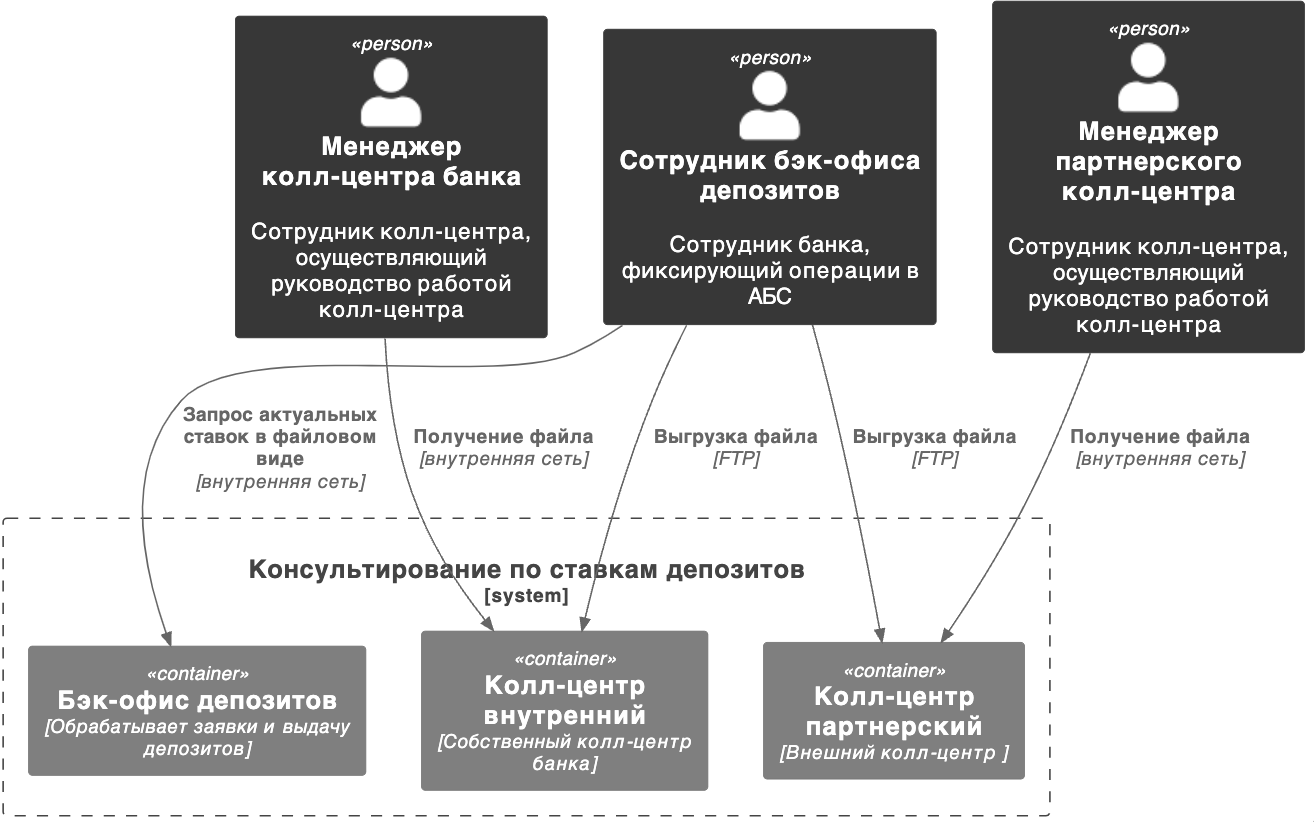
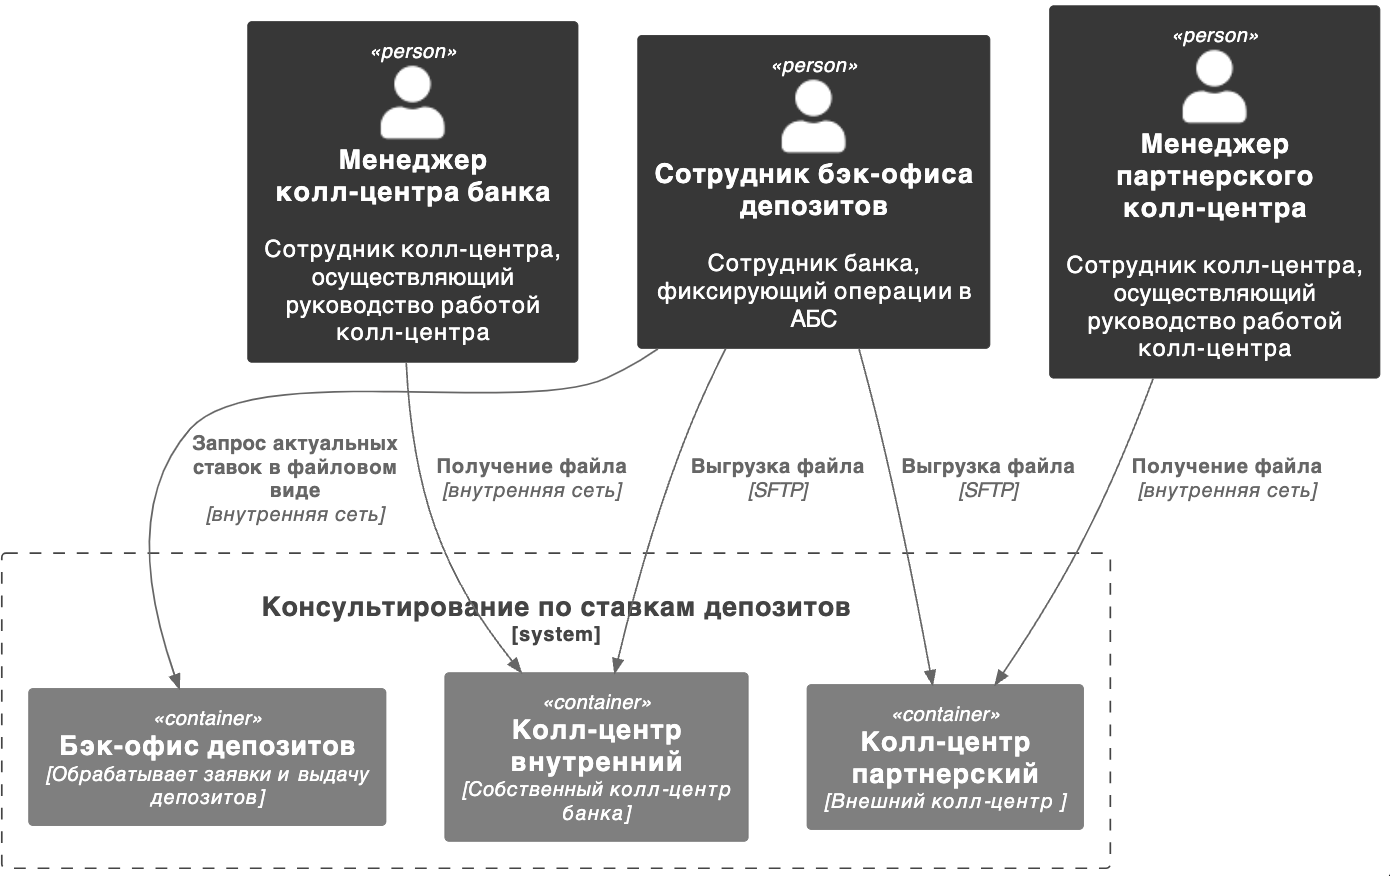
Review: Tasks 2,3,4

diff --git a/Task2/FURPS.md b/Task2/FURPS.md
@@ -12,12 +12,13 @@
 | U1 ?| Оранизовать доступ к ставкам по депозитам в АБС.                                 |              |
 | U2  | Дизайн всех систем должен использовать концепцию уже имееющуюся в компании.      |              |
 | R   | Надёжность (Reliability)                                                         |              |
-| R1  | Данные необходимо защищать с помощью механизма шифрования трафика.               |              |
-| R2  | В интернет-банке данные при передаче надо защитить шифрованием.                  |              |
+| R1  | Сервисы интернет-банка должны выдерживали требуемую нагрузку.                    |              |
+| R2  | Сервисы интернет-банка должны быть продублированы и распологаться в двух ЦОДах,  |              |
+|     | одна копися должна быть рабочая, вторая - выключена с возможностью быстрого      |              |
+|     | включения.                                                                       |              |
 | P   | Производительность (Performance)                                                 |              |
-| P1  | Отклик по всем операциям должен занимать миллисекунды.                           |              |
+| P1  | Отклик по всем операциям должен занимать не более 10 милисекунд.                 |              |
 | P2  | Все сервисы должны работать 24/7 и быть доступны в 99,9% случаев.                |              |
-| P3  | Сервисы интернет-банка должны выдерживали требуемую нагрузку.                    |              |
 | S   | Поддерживаемость (Supportability)                                                |              |
 | S1  | Использовать для новых разработок технологии которые уже есть в компании         |              |
 |     | или по которым есть экспертиза.                                                  |              |
@@ -27,3 +28,6 @@
 | +R3 | Данные о ставках по депозитам должны быть доступны сотрудникам                   |              | 
 |     | бэк-офиса депозитов и бэк-офиса кредитов.                                        |              |
 | +R4 | В качестве очереди использовать Kafka.                                           |              |
+| +S  | + Ограничения (Restricitions)                                                    |              |
+| +S1 | Данные необходимо защищать с помощью механизма шифрования трафика.               |              |
+| +S2 | В интернет-банке данные при передаче надо защитить шифрованием.                  |              |

diff --git a/Task4/ADR.md b/Task4/ADR.md
@@ -8,7 +8,7 @@
 | :-: | :- | :- | :- |
 |1|Руководитель колл-центра банка, Оператор бэк-офиса депозитов|Актуализация данных|1.Оператор бэк-офиса отправляет актуальный XLS-файл по внутренней электронной почте руководителю колл-центра|
 ||||2.Руководитель колл-центра доводит информацию до сотрудников|
-|2|Руководитель партнерского колл-центра, Оператор бэк-офиса депозитов|Актуализация данных|1.Оператор бэк-офиса отправляет актуальный XLS-файл по защищенному каналу на FTP-папку колл-центра||
+|2|Руководитель партнерского колл-центра, Оператор бэк-офиса депозитов|Актуализация данных|1.Оператор бэк-офиса отправляет актуальный XLS-файл по защищенному каналу на SFTP-папку колл-центра||
 ||||2.Руководитель колл-центра доводит информацию до сотрудников|
 ### <a name="_u8xz25hbrgql"></a>**Нефункциональные требования**
 Опишите здесь нефункциональные требования и архитектурно-значимые требования.

diff --git a/Task3/ADR.md b/Task3/ADR.md
@@ -20,7 +20,7 @@
 | :-: | :- |
 |1.|Использовать существующие в компании технологии или компетенции.|
 |2.|Все скрвисы должны быть доступны 24/7 99,99% времени.|
-|3.|Скорость ответа на любое действие пользователя с сайтом и ЛК должна выражаться в милисекундах.|
+|3.|Время ответа на любое действие пользователя с сайтом и ЛК должна не превосходить 10 милисекунд.|
 |4.|Использовать существующий дизайн.|
 ### <a name="_qmphm5d6rvi3"></a>**Решение**
 ![alt text](task3_main.png)
